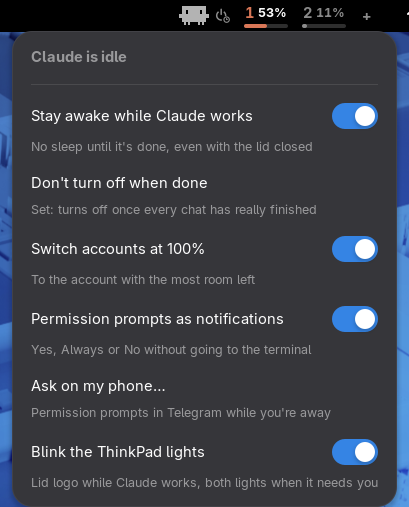
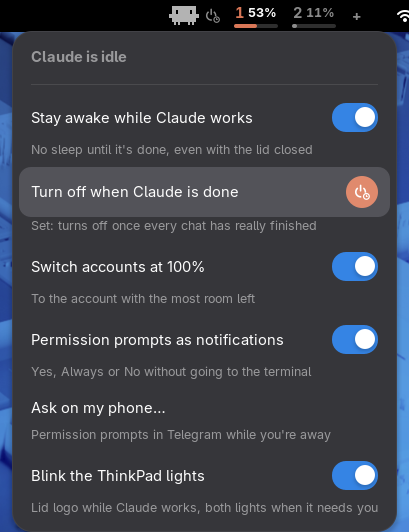
Turn off when done: a round button that lights up when set
The menu row has a round power-and-clock button, grey when not set and orange when set; the
row or the button flips it, and the menu stays open so you see the change.

diff --git a/extension/claude-account-switcher@aimanelahssini/extension.js b/extension/claude-account-switcher@aimanelahssini/extension.js
@@ -197,6 +197,38 @@ function barText(chat) {
     return `${chat.title} · ${{idle: 'idle', working: 'working', needs: 'needs you'}[chat.state]}`;
 }
 
+// "Turn off when Claude is done": a menu row with a round button that lights up while it's set,
+// like Quick Settings' buttons. Clicking it (or the row) flips it and leaves the menu open.
+const OffItem = GObject.registerClass({
+    Signals: {'toggled': {param_types: [GObject.TYPE_BOOLEAN]}},
+}, class OffItem extends PopupMenu.PopupBaseMenuItem {
+    _init(gicon, checked) {
+        super._init({style_class: 'claude-acct-off-item'});
+        this.label = new St.Label({text: 'Turn off when Claude is done', x_expand: true, y_align: Clutter.ActorAlign.CENTER});
+        this.add_child(this.label);
+        this.button = new St.Button({style_class: 'claude-acct-off-button', can_focus: false, toggle_mode: true,
+            child: new St.Icon({gicon, style_class: 'claude-acct-off-button-icon'}), y_align: Clutter.ActorAlign.CENTER,
+            accessible_name: 'Turn off when Claude is done'});
+        this.button.connect('clicked', () => this.emit('toggled', this.button.checked));
+        this.add_child(this.button);
+        this.setChecked(checked);
+    }
+
+    setChecked(on) {
+        this.button.checked = on;
+    }
+
+    get checked() {
+        return this.button.checked;
+    }
+
+    activate() {
+        // Not the usual "do it and close": flip, and stay so you see the button change.
+        this.button.checked = !this.button.checked;
+        this.emit('toggled', this.button.checked);
+    }
+});
+
 function label(n) {
     return n === '-' ? '−' : n;
 }
@@ -983,13 +1015,23 @@ export default class ClaudeAccountExtension extends Extension {
             menu.addMenuItem(this._hint('No sleep until it\'s done, even with the lid closed'));
             // A one-time thing, until it turns the computer off (or you take it back, or it
             // restarts). claude-busy's holder does the waiting, so it works locked and lid closed.
-            if (offWhenDone) {
-                menu.addAction('Don\'t turn off when done', () => this._runBusy('off-when-done', 'off'));
-                menu.addMenuItem(this._hint('Set: turns off once every chat has really finished'));
-            } else {
-                menu.addAction('Turn off when Claude is done', () => this._runBusy('off-when-done', 'on'));
-                menu.addMenuItem(this._hint('Once every chat has really finished, after a minute\'s warning'));
-            }
+            // A round button that lights up when it's set; the menu stays open so you see it.
+            const off = new OffItem(Gio.FileIcon.new(this.dir.get_child('icons').get_child('power-clock-symbolic.svg')),
+                offWhenDone);
+            const offHint = this._hint('');
+            const showOff = set => {
+                off.setChecked(set);
+                offHint.label.text = set ? 'Set: turns off once every chat has really finished'
+                    : 'Once every chat has really finished, after a minute\'s warning';
+            };
+            showOff(offWhenDone);
+            off.connect('toggled', (item, set) => {
+                showOff(set);
+                this._runBusy('off-when-done', set ? 'on' : 'off');
+            });
+            this._offItem = off;   // tests read it
+            menu.addMenuItem(off);
+            menu.addMenuItem(offHint);
             const auto = new PopupMenu.PopupSwitchMenuItem('Switch accounts at 100%', this._option('auto-switch'));
             auto.connect('toggled', (item, on) => {
                 this._setOption('auto-switch', on);

diff --git a/tests/shell/claude-test@tests/extension.js b/tests/shell/claude-test@tests/extension.js
@@ -279,25 +279,39 @@ async function offTest() {
     const exists = name => GLib.file_test(`${busy}/${name}`, GLib.FileTest.EXISTS);
     ext._tag.emit('clicked', 3);
     await sleep(700);
-    const button = text => ext._options._getMenuItems().find(i => i.label?.text === text);
-    const item = button('Turn off when Claude is done');
-    check('off: a button in the menu (not a switch)', !!item && !item._switch);
+    const pointer = Clutter.get_default_backend().get_default_seat().create_virtual_device(Clutter.InputDeviceType.POINTER_DEVICE);
+    const click = async actor => {
+        const [x, y] = actor.get_transformed_position();
+        pointer.notify_absolute_motion(GLib.get_monotonic_time(), x + actor.width / 2, y + actor.height / 2);
+        await sleep(200);
+        pointer.notify_button(GLib.get_monotonic_time(), Clutter.BUTTON_PRIMARY, Clutter.ButtonState.PRESSED);
+        await sleep(50);
+        pointer.notify_button(GLib.get_monotonic_time(), Clutter.BUTTON_PRIMARY, Clutter.ButtonState.RELEASED);
+        await sleep(700);
+    };
+    const item = ext._offItem;
+    check('off: a round button in the menu, not lit', !!item && !item.checked && !item.button.has_style_pseudo_class('checked'));
     check('off: no icon in the top bar yet', !ext._offIcon.visible);
-    item.emit('activate', null);
-    await sleep(800);
-    check('off: pressing it tells claude-busy', exists('.off-when-done'));
+    await click(item.button);
+    check('off: clicking it lights it up, the menu stays open', item.checked && item.button.has_style_pseudo_class('checked') &&
+        ext._options.isOpen);
+    check('off: and tells claude-busy', exists('.off-when-done'));
     check('off: a grey power-and-clock icon next to the mascot', ext._offIcon.visible && ext._offIcon.get_parent() === ext._mascot.get_parent());
+    await shot('off-menu-set', ext, false, ext._options.actor);
+    await click(item.label);
+    check('off: clicking the row takes it back', !item.checked && !exists('.off-when-done') && ext._options.isOpen && !ext._offIcon.visible);
+    await shot('off-menu-unset', ext, false, ext._options.actor);
+    await click(item.button);
+    check('off: set again', item.checked && exists('.off-when-done'));
+    ext._options.close();
+    pointer.notify_absolute_motion(GLib.get_monotonic_time(), 700, 600);
+    await sleep(400);
     ext._tag.hover = true;
     await sleep(300);
     check('off: the hover text says so', ext._tooltip.text.endsWith('· turns off when done'), ext._tooltip.text);
     ext._tag.hover = false;
     await shot('off-icon', ext);
-    ext._tag.emit('clicked', 3);
-    await sleep(700);
-    check('off: the button now takes it back', !!button('Don\'t turn off when done'));
-    await shot('off-menu-set', ext, false, ext._options.actor);
-    ext._options.close();
-    await sleep(400);
+
     // Every chat finished: claude-busy's minute of warning.
     GLib.file_set_contents(`${busy}/.off-at`, `${Math.floor(Date.now() / 1000) + 60}\n`);
     await sleep(800);
@@ -322,7 +336,7 @@ async function offTest() {
     check('off: warning withdrawn when it no longer applies', !!n2 && !ext._offNotice);
     ext._tag.emit('clicked', 3);
     await sleep(700);
-    check('off: the button is back to turning it on', !!button('Turn off when Claude is done'));
+    check('off: the button is unlit again', !ext._offItem.checked);
     await shot('off-menu', ext, false, ext._options.actor);
     ext._options.close();
     out('DONE');

diff --git a/extension/claude-account-switcher@aimanelahssini/stylesheet.css b/extension/claude-account-switcher@aimanelahssini/stylesheet.css
@@ -96,3 +96,13 @@
 
 /* Set to turn off when Claude is done: a grey power symbol with a clock, next to the mascot */
 .claude-acct-off-icon { icon-size: 15px; color: rgba(255,255,255,0.55); }
+
+/* Turn off when Claude is done: a round button that lights up (orange) while it's set */
+.claude-acct-off-button {
+  width: 32px; height: 32px; border-radius: 99px;
+  background-color: rgba(255,255,255,0.1); color: rgba(255,255,255,0.75);
+}
+.claude-acct-off-button:hover { background-color: rgba(255,255,255,0.17); }
+.claude-acct-off-button:checked { background-color: #d77757; color: #fff; }
+.claude-acct-off-button:checked:hover { background-color: #e08a6d; }
+.claude-acct-off-button-icon { icon-size: 16px; }

diff --git a/README.md b/README.md
@@ -45,13 +45,13 @@ without restarting, and see how much of each account's 5-hour limit is used.</p>
 Click the mascot (or right-click it) to turn any of these off or back on. The switches are on
 by default.
 
-<p align="center"><img src="docs/options.png" width="420" alt="Menu under the mascot, with the grey power-and-clock icon next to it in the top bar: switches for staying awake, switching accounts at 100%, permission prompts as notifications and the ThinkPad lights, and the buttons Don't turn off when done and Ask on my phone"></p>
+<p align="center"><img src="docs/options.png" width="420" alt="Menu under the mascot, with the grey power-and-clock icon next to it in the top bar: switches for staying awake, switching accounts at 100%, permission prompts as notifications and the ThinkPad lights, the round Turn off when Claude is done button lit in orange, and Ask on my phone"></p>
 
 - **Stay awake while Claude works:** see [While Claude works](#while-claude-works).
-- **Turn off when Claude is done** (a button, for this once): the computer turns off once every
-  chat has really finished, and stays on until then, lid closed too. While it's set, a grey
-  power symbol with a clock sits next to the mascot, and the button reads **Don't turn off
-  when done**. "Finished" means, for every chat: not
+- **Turn off when Claude is done** (for this once): click the round button on its row and it
+  lights up orange (click again to take it back; the menu stays open so you see it). The
+  computer turns off once every chat has really finished, and stays on until then, lid closed
+  too. While it's set, a grey power symbol with a clock sits next to the mascot. "Finished" means, for every chat: not
   working (Claude Code's own status says idle), no command it started still running (a
   background job, a monitor), and not waiting for you (a permission prompt or a question);
   and all of that for 3 minutes in a row, so a pause between two steps doesn't count. Then a
